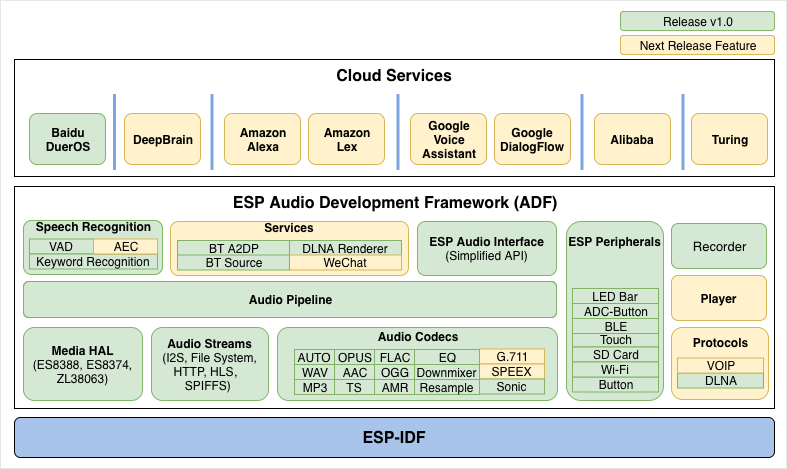
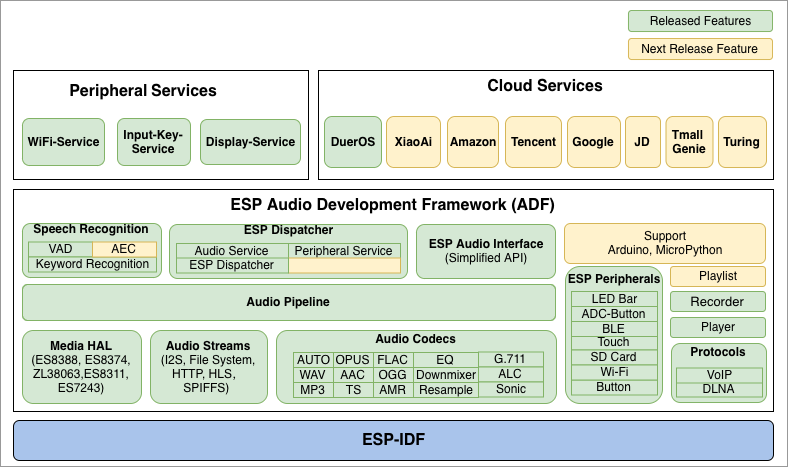
Modify block for release v2.0

diff --git a/components/esp_dispatcher/README.md b/components/esp_dispatcher/README.md
@@ -1,0 +1,26 @@
+## ESP Dispatcher
+Most of audio products in the market have highly similar features, such as applying basically the same human-computer interaction mode, and using nearly identical cloud services provided by various cloud servers. What differentiates is only the key functions of a product and its logical control module, which means you can reuse the other functions of some existing products. Now, Espressif provides a new design, ESP_Dispatcher, to help reuse these functions.
+
+Based on ESP_Dispatcher, product functions are split into event input module, logic control module and execution output module, with each module further subdivided into separate sub-functional units. Each sub-functional unit can be combined flexibly with other units or with customized logic control design.
+
+ESP_Dispatcher helps you reuse the same functions of different products, which avoids repeated development and makes the existing product functions more reusable. Meanwhile, you can design differentiated functions and logic control module at your own will, making product development more flexible. In such way, you can shorten product development cycle, and speed up the timing to market and product iteration.
+
+ESP_Dispatcher consists of a dispatcher and a series of services.
+
+* The dispatcher adopts a separate-execution mechanism and executes functional units separately according to unit ID.
+
+* The service is a highly-abstract functional class and only generates external input and output, such as providing executable functional units and generating service state events. Non-external tasks are handled internally in service. Currently, ESP_Dispatcher support 2 services:
+    * Peripheral Service
+        * Peripheral service is used to handle external tasks concerning GPIO, Touch, SDCARD, ADC, UART, Display, Wi-Fi and network configuration.
+        * This service also can generate GPIO interrupts, Touch events, and provides management and control functions, such as network configuration control and LED display style management.
+
+    * Audio Service
+        * Audio service is used to handle protocol class functions, such as cloud service (DuerOS), DLNA and VoIP, and provides control-class interfaces and state events.
+
+Each module and sub-functional unit in ESP_Dispatcher runs as a separate task, providing a structure that can simplify complex product styles and adapts to any product style.
+
+A standard ESP_Dispatcher audio application block diagram as shown below.
+<div align="center"><img src="../../docs/_static/esp_dispatcher_audio_app_diagram.png" alt ="ESP Dispatcher Audio Application Diagram" align="center" /></div>
+
+There is an example in the folder of [esp_dispatcher_dueros](https://github.com/espressif/esp-adf/tree/master/examples/advanced_examples/esp_dispatcher_dueros).
+

diff --git a/examples/README.md b/examples/README.md
@@ -12,8 +12,8 @@ Compatibility of examples with Espressif audio boards is presented in table belo
 |  1  | [advanced_examples/dlna](advanced_examples/dlna)                                               | ![alt text](../docs/_static/yes-button.png "Compatible") |                                                          |
 |  2  | [advanced_examples/downmix_pipeline](advanced_examples/downmix_pipeline)                       | ![alt text](../docs/_static/yes-button.png "Compatible") |                                                          |
 |  3  | [advanced_examples/flexible_pipeline](advanced_examples/flexible_pipeline)                     | ![alt text](../docs/_static/yes-button.png "Compatible") |                                                          |
-|  4  | [advanced_examples/http_play_and_save_to_file](advanced_examples/http_play_and_save_to_file)   | ![alt text](../docs/_static/yes-button.png "Compatible") |															 |
-|  5  | [advanced_examples/esp_deamon_dueros](advanced_examples/esp_deamon_dueros)                     | ![alt text](../docs/_static/yes-button.png "Compatible") | ![alt text](../docs/_static/yes-button.png "Compatible") |
+|  4  | [advanced_examples/http_play_and_save_to_file](advanced_examples/http_play_and_save_to_file)   | ![alt text](../docs/_static/yes-button.png "Compatible") |                                                          |
+|  5  | [advanced_examples/esp_dispatcher_dueros](advanced_examples/esp_dispatcher_dueros)                     | ![alt text](../docs/_static/yes-button.png "Compatible") | ![alt text](../docs/_static/yes-button.png "Compatible") |
 |  6  | [advanced_examples/record_while_play](advanced_examples/record_while_play)                     | ![alt text](../docs/_static/yes-button.png "Compatible") | ![alt text](../docs/_static/yes-button.png "Compatible") |
 |  7  | [audio_processing/pipeline_equalizer](audio_processing/pipeline_equalizer)                     | ![alt text](../docs/_static/yes-button.png "Compatible") |                                                          |
 |  8  | [audio_processing/pipeline_passthru](audio_processing/pipeline_passthru)                       | ![alt text](../docs/_static/yes-button.png "Compatible") |                                                          |

diff --git a/examples/advanced_examples/esp_dispatcher_dueros/README.md b/examples/advanced_examples/esp_dispatcher_dueros/README.md
@@ -6,8 +6,8 @@ This example shows how to use ADF ESP Dispatcher action APIs to connect DuerOS.
 
 | ESP32-LyraT | ESP32-LyraT-MSC |
 |:-----------:|:---------------:|
-| [![alt text](../../docs/_static/esp32-lyrat-v4.2-side-small.jpg "ESP32-LyraT")](https://docs.espressif.com/projects/esp-adf/en/latest/get-started/get-started-esp32-lyrat.html) | [![alt text](../../docs/_static/esp32-lyratd-msc-v2.2-small.jpg "ESP32-LyraTD-MSC")](https://docs.espressif.com/projects/esp-adf/en/latest/get-started/get-started-esp32-lyratd-msc.html) |
-| ![alt text](../../docs/_static/yes-button.png "Compatible") | ![alt text](../../docs/_static/yes-button.png "Compatible") |
+| [![alt text](../../../docs/_static/esp32-lyrat-v4.2-side-small.jpg "ESP32-LyraT")](https://docs.espressif.com/projects/esp-adf/en/latest/get-started/get-started-esp32-lyrat.html) | [![alt text](../../../docs/_static/esp32-lyratd-msc-v2.2-small.jpg "ESP32-LyraTD-MSC")](https://docs.espressif.com/projects/esp-adf/en/latest/get-started/get-started-esp32-lyratd-msc.html) |
+| ![alt text](../../../docs/_static/yes-button.png "Compatible") | ![alt text](../../../docs/_static/yes-button.png "Compatible") |
 
 ## Usage
 

diff --git a/README.md b/README.md
@@ -8,9 +8,9 @@ Espressif Systems Audio Development Framework (ESP-ADF) is the official audio de
 
 ESP-ADF supports development of audio applications for the Espressif Systems [ESP32](https://espressif.com/en/products/hardware/esp32/overview) chip in the most comprehensive way. With ESP-ADF, you can easily add features, develop audio applications from simple to complex:
 
-- Music player or recorder supports audio formats such as MP3, AAC, FLAC, WAV, OGG, AMR, TS, EQ, Downmixer, Sonic, G.711, SPEEX ...
+- Music player or recorder supports audio formats such as MP3, AAC, FLAC, WAV, OGG, OPUS, AMR, TS, EQ, Downmixer, Sonic, ALC, G.711...
 - Play music from sources: HTTP, HLS(HTTP Live Streaming), SPIFFS, SDCARD,  A2DP-Source, A2DP-Sink, HFP ...
-- Integrate Media services such as: DLNA, WeChat ...
+- Integrate Media services such as: DLNA, VoIP ...
 - Internet Radio
 - Voice recognition and integration with online services such as Alexa, DuerOS, ...
 
